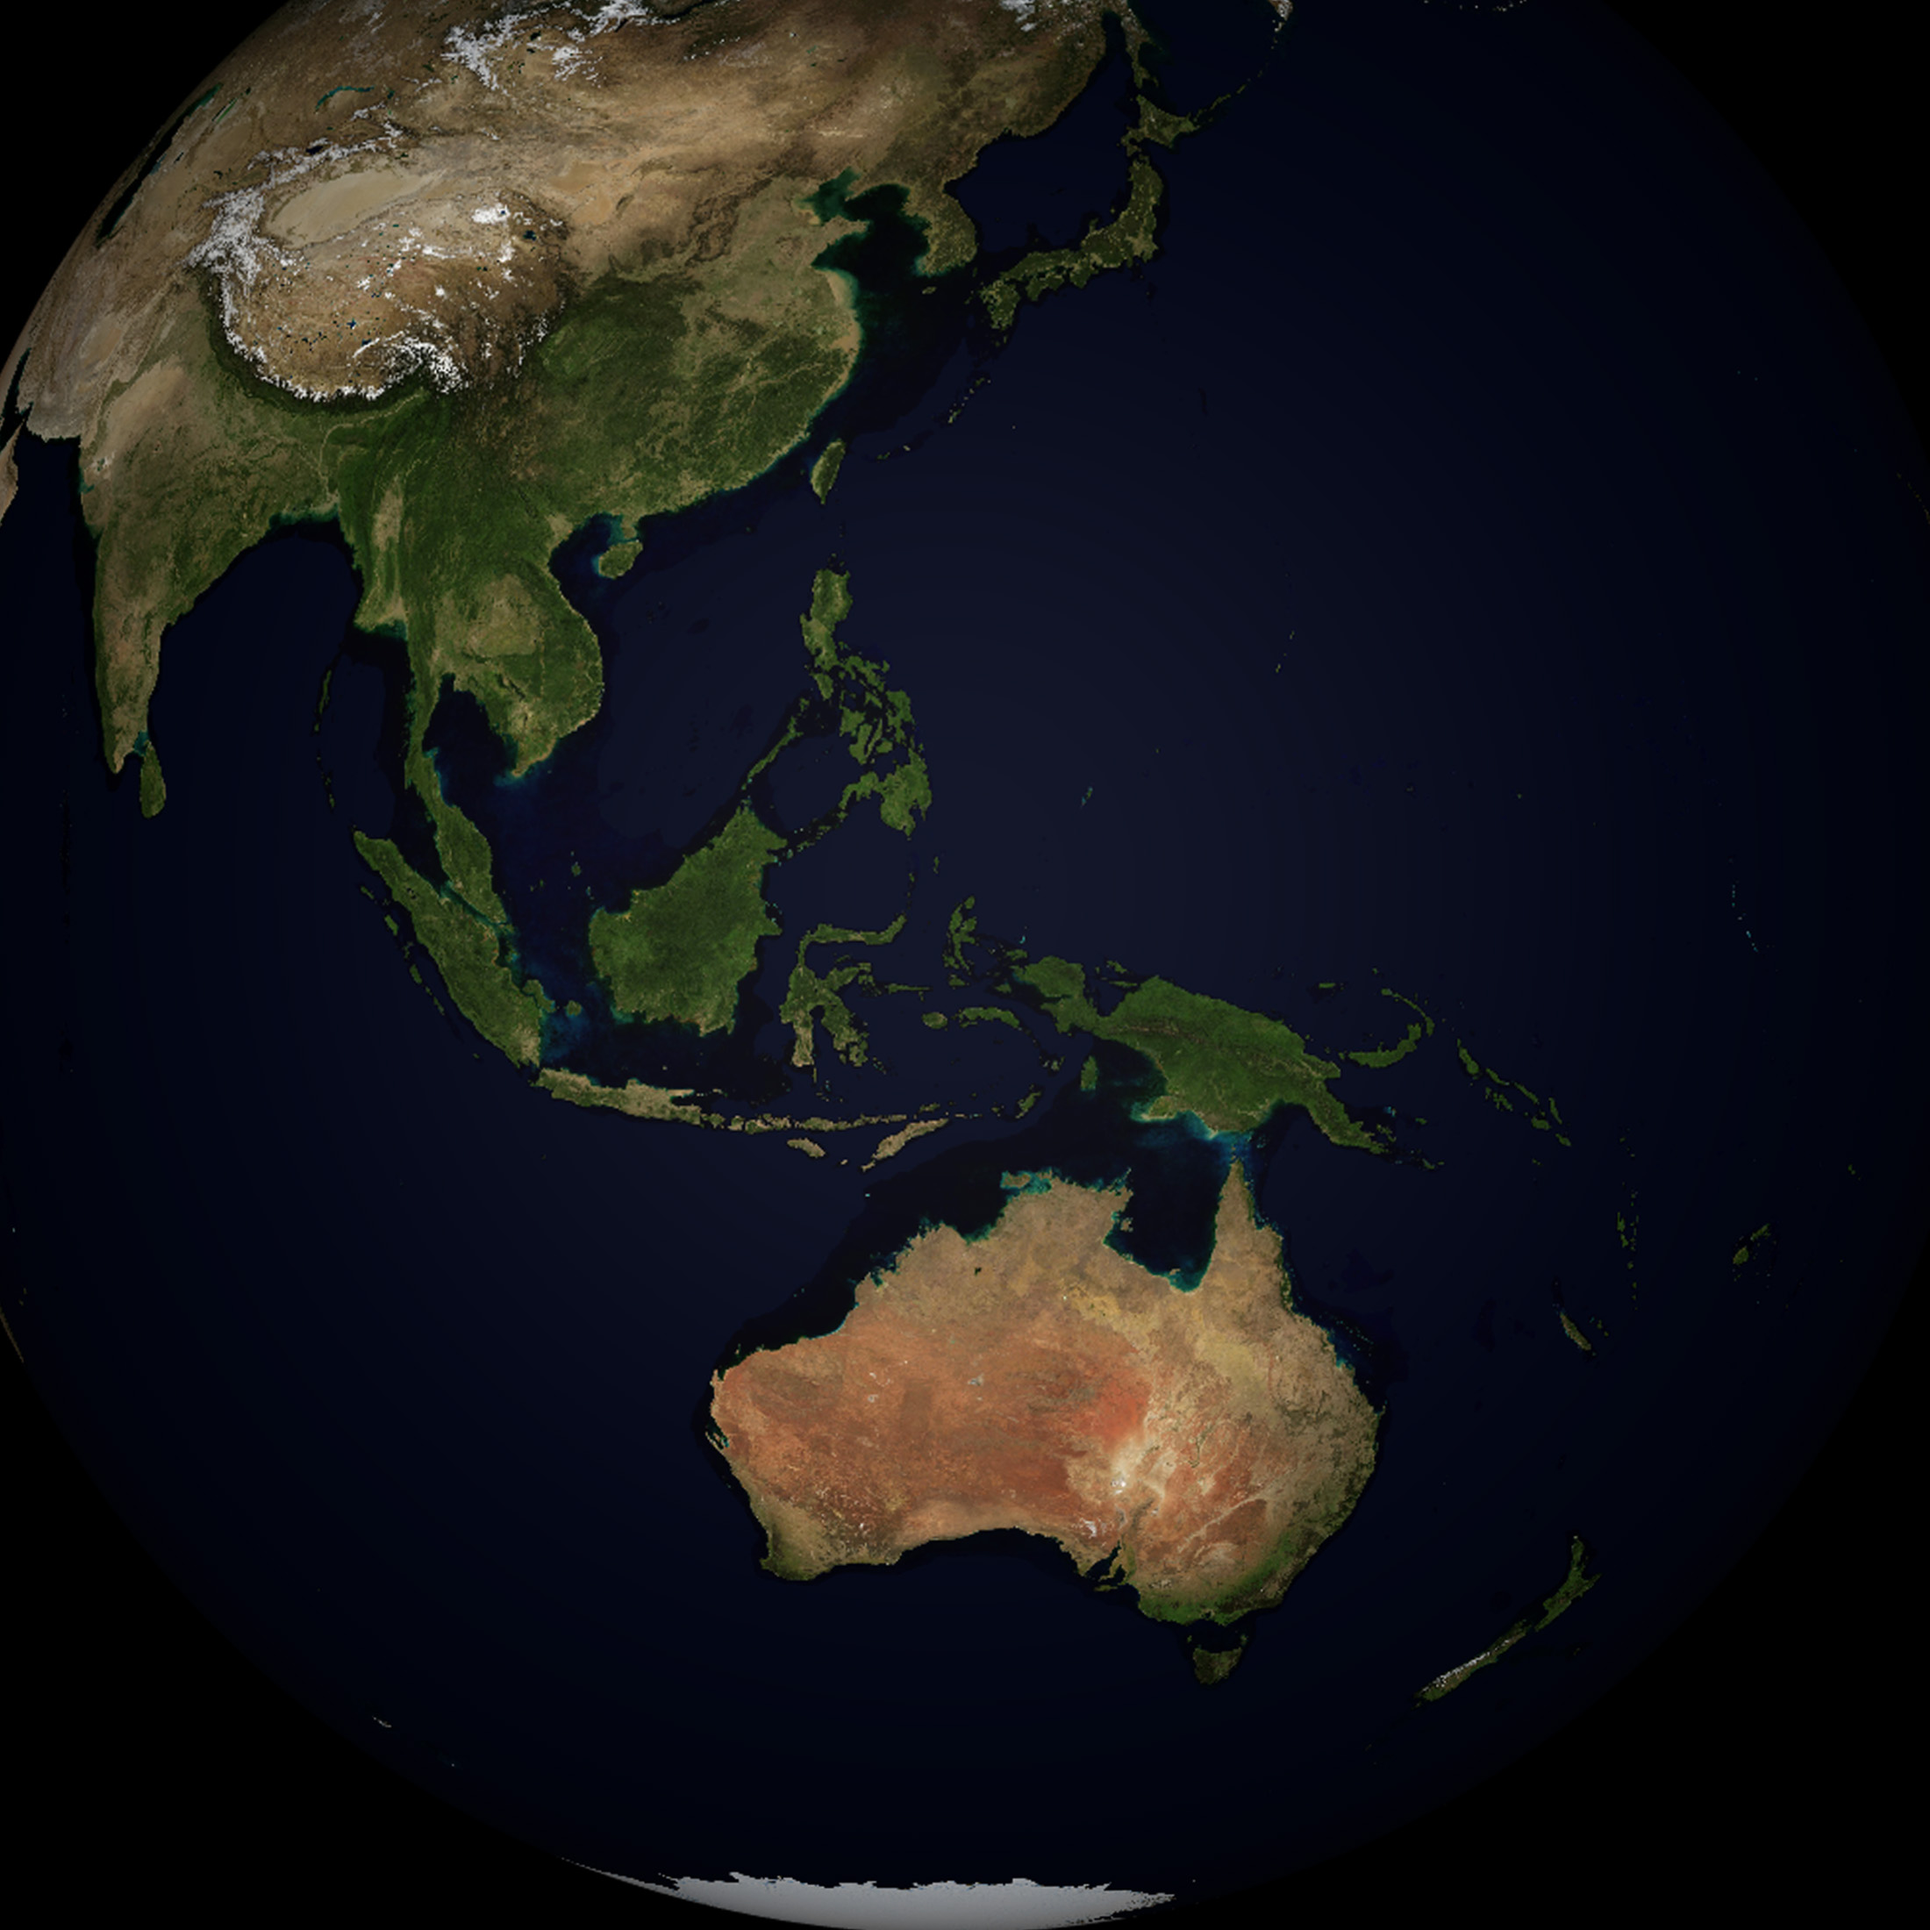
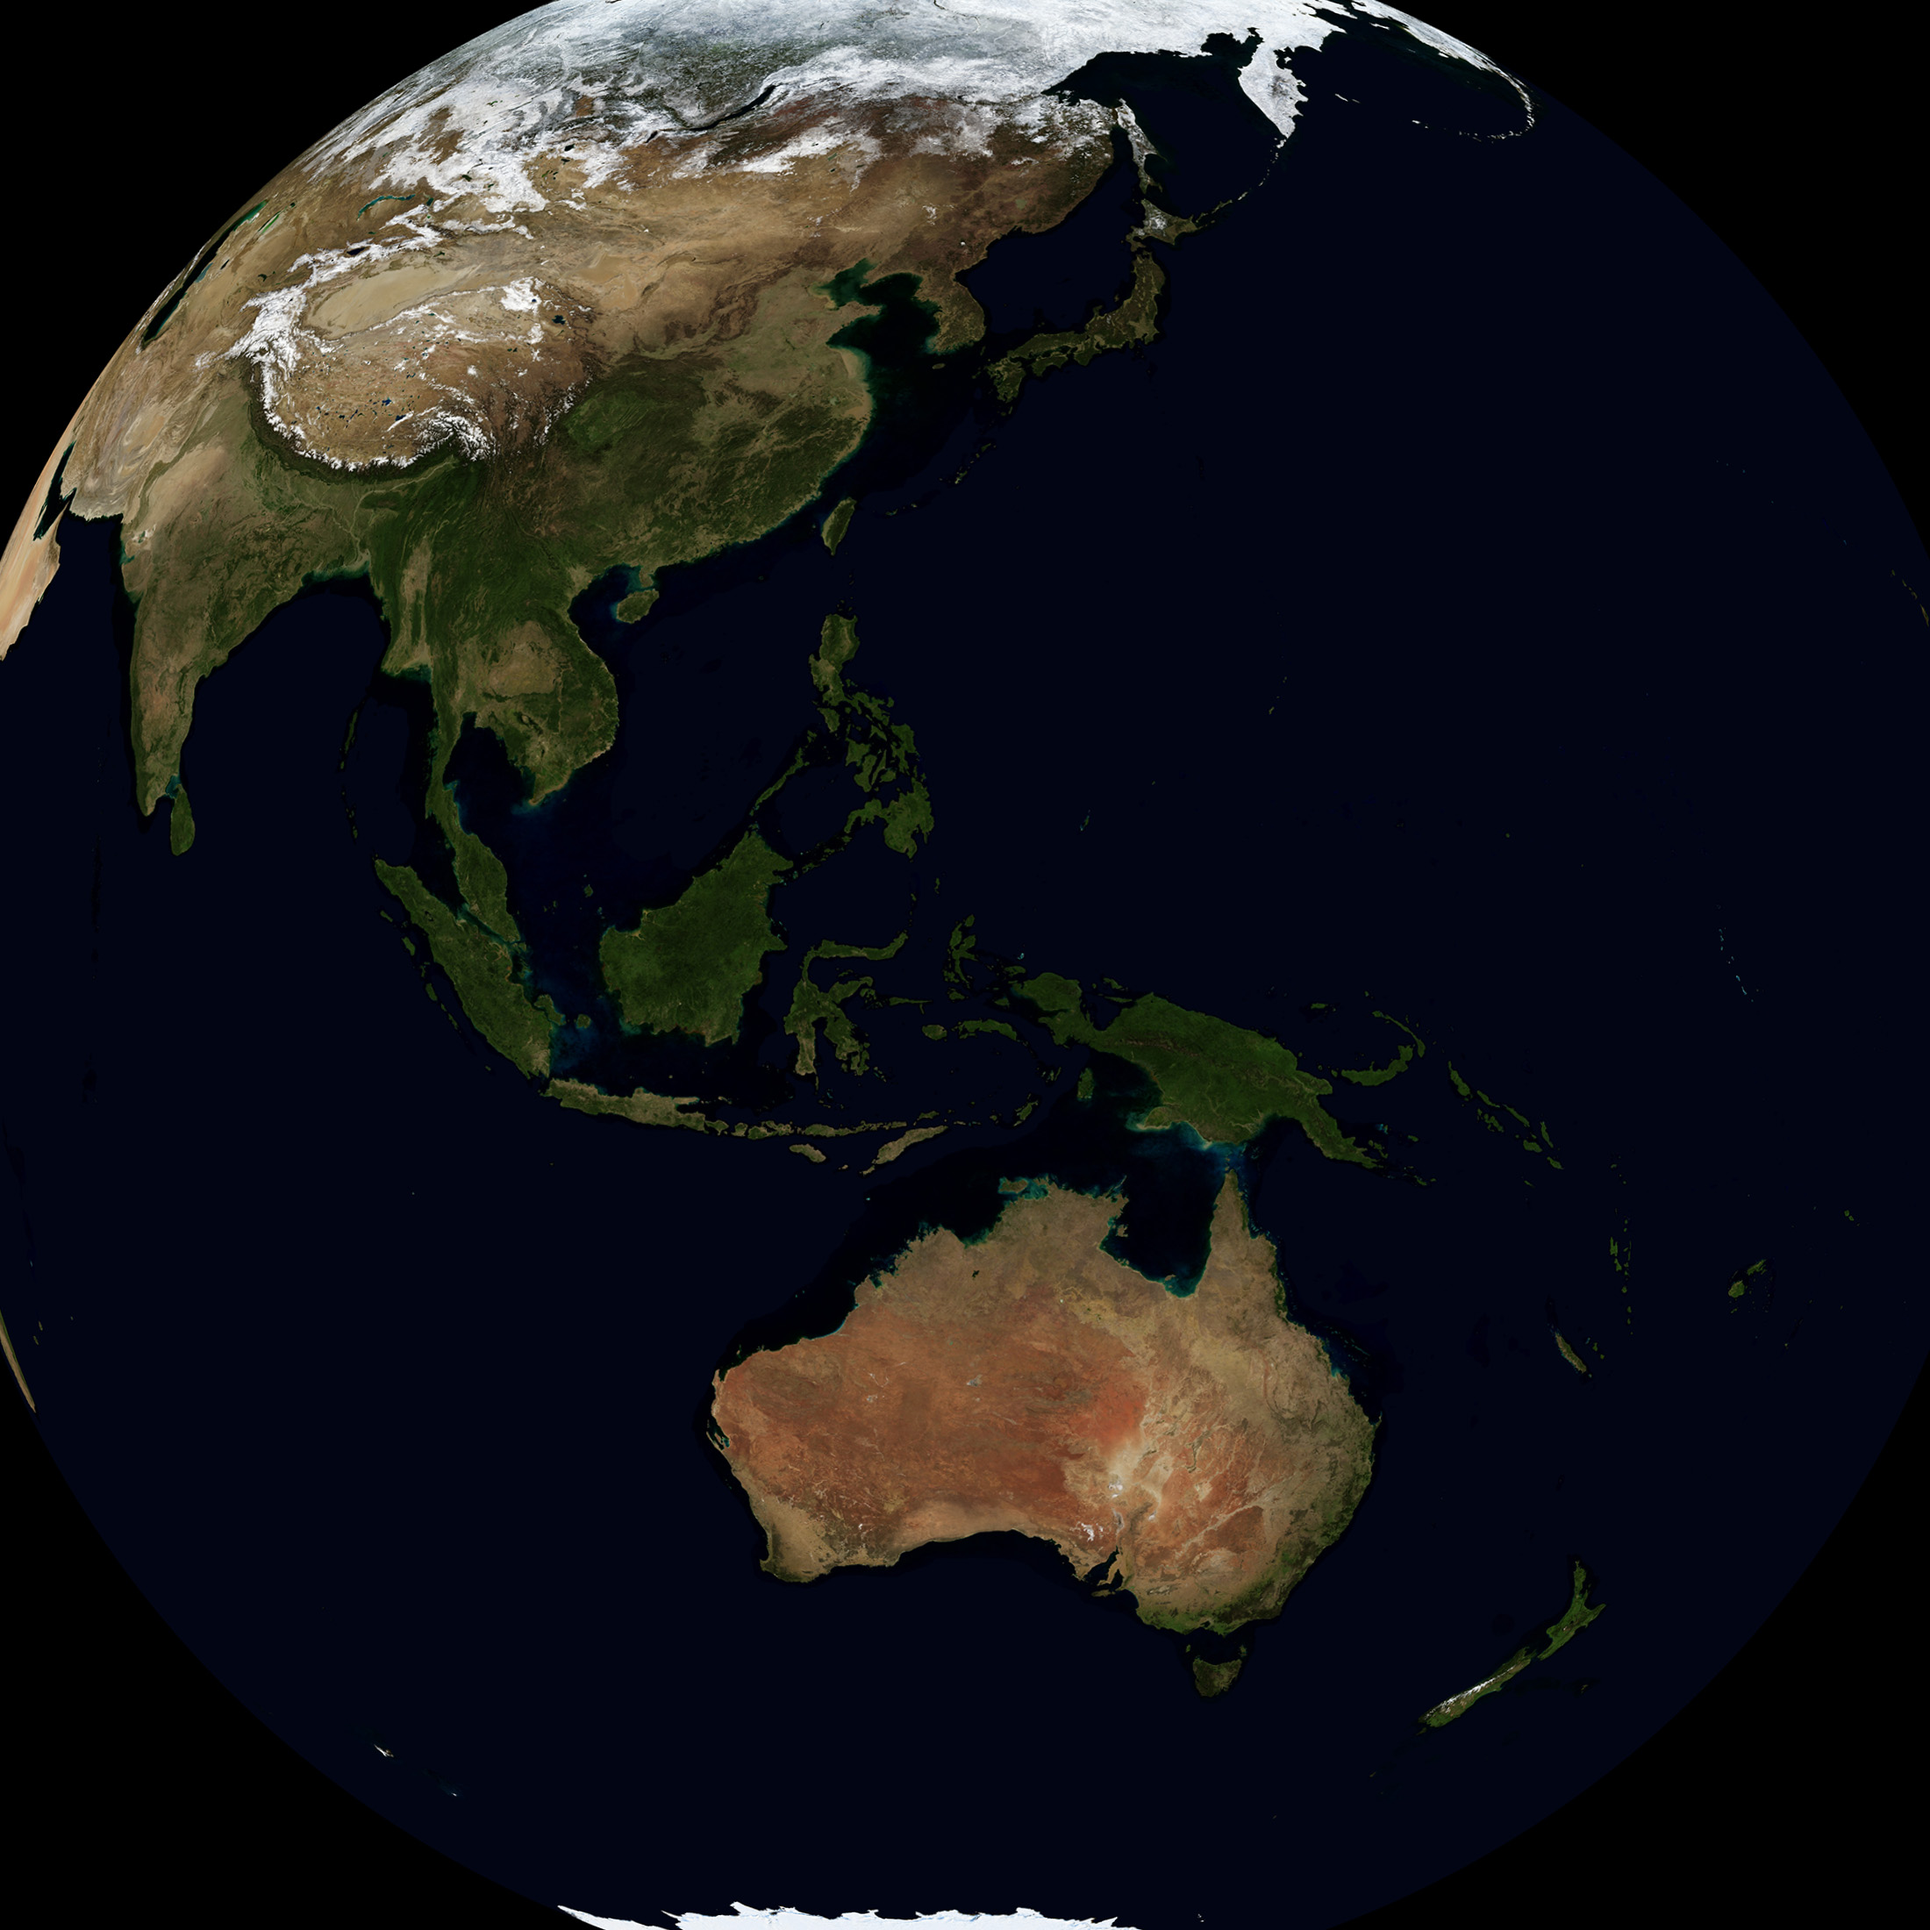
Add high-rez underlays Add image upscaling service Tidy

diff --git a/Sanchez/Builders/CompositorBuilder.cs b/Sanchez/Builders/CompositorBuilder.cs
@@ -1,5 +1,6 @@
-using Ardalis.GuardClauses;
+using System.Linq;
 using Sanchez.Models;
+using Serilog;
 using SixLabors.ImageSharp;
 using SixLabors.ImageSharp.PixelFormats;
 using SixLabors.ImageSharp.Processing;
@@ -11,26 +12,36 @@ namespace Sanchez.Builders
     /// </summary>
     internal class CompositorBuilder
     {
-        private readonly Image _image;
+        /// <summary>
+        ///     Source images
+        /// </summary>
+        private readonly ImageStack _stack;
         private readonly RenderOptions _options;
+
+        /// <summary>
+        ///     Image being composited
+        /// </summary>
+        private readonly Image _image;
         
         /// <summary>
         ///     Creates a new builder.
         /// </summary>
-        /// <param name="image">image to compose</param>
+        /// <param name="stack">image to compose</param>
         /// <param name="options">render options</param>
-        public CompositorBuilder(Image image, RenderOptions options)
+        public CompositorBuilder(ImageStack stack, RenderOptions options)
         {
-            _image = image;
+            _stack = stack;
             _options = options;
+
+            _image = _stack.Underlay!;
         }
 
         /// <summary>
         ///     Blends the underlay image with the satellite image.
         /// </summary>
-        public CompositorBuilder AddUnderlay(Image satellite)
+        public CompositorBuilder AddUnderlay()
         {
-            _image.Mutate(context => context.DrawImage(satellite, PixelColorBlendingMode.Screen, 1.0f));
+            _image.Mutate(context => context.DrawImage(_stack.Satellite, PixelColorBlendingMode.Screen, 1.0f));
             return this;
         }
 
@@ -57,39 +68,66 @@ namespace Sanchez.Builders
         ///     This mask is multiplied with the composite image so isn't entirely suitable for adding textual information
         ///     or other graphics to the image.
         /// </remarks>
-        public CompositorBuilder AddMask(string? path)
+        public CompositorBuilder AddMask()
         {
-            if (!_options.RenderMask) return this;
-            Guard.Against.Null(path, nameof(path));
+            if (_stack.Mask == null) return this;
 
-            Compose(path!, PixelColorBlendingMode.Multiply);
+            Compose(_stack.Mask, PixelColorBlendingMode.Multiply);
             return this;
         }
 
         /// <summary>
         ///     Adds an overlay image.
         /// </summary>
-        public CompositorBuilder AddOverlay(string? path)
+        public CompositorBuilder AddOverlay()
         {
-            if (!_options.RenderOverlay) return this;
-            Guard.Against.Null(path, nameof(path));
+            if (_stack.Overlay == null) return this;
 
-            Compose(path!);
+            Compose(_stack.Overlay);
             return this;
         }
 
-        private void Compose(string path, PixelColorBlendingMode blendingMode = PixelColorBlendingMode.Normal)
+        /// <summary>
+        ///     Composes the underlay with a target image.
+        /// </summary>
+        private void Compose(Image target, PixelColorBlendingMode blendingMode = PixelColorBlendingMode.Normal)
         {
-            _image.Mutate(context =>
-            {
-                using var target = Image.Load(path);
-                context.DrawImage(target, blendingMode, 1.0f);
-            });
+            _image.Mutate(context => context.DrawImage(target, blendingMode, 1.0f));
         }
 
         /// <summary>
         ///     Saves the composited image.
         /// </summary>
         public void Save(string outputFilename) => _image.Save(outputFilename);
+
+        /// <summary>
+        ///     Resizes each image in a collection to the largest image in the collection.
+        /// </summary>
+        /// <remarks>
+        ///    It is assumed that each image has the same aspect ratio. If not, warping will occur.
+        /// </remarks>
+        public CompositorBuilder Scale()
+        {
+            var images = _stack.All.ToList();
+            
+            var maxWidth = images.Max(image => image.Width);
+            var maxHeight = images.Max(image => image.Height);
+
+            // Find the image which has the largest width and height
+            var largestImage = images.FirstOrDefault(i => i.Width == maxWidth && i.Height == maxHeight);
+            if (largestImage == null) return this;
+
+            // Don't do anything if all images are the same size
+            if (images.Min(image => image.Width) >= maxWidth && images.Min(image => image.Height) >= maxHeight) return this;
+            
+            images.ForEach(image =>
+            {
+                Log.Information("Resizing to max dimension of {width}x{height}", maxWidth, maxHeight);
+ 
+                image.Mutate(context => context.Resize(largestImage.Width, largestImage.Height));
+            });
+
+            return this;
+        }
     }
 }

diff --git a/Sanchez/Services/Compositor.cs b/Sanchez/Services/Compositor.cs
@@ -161,19 +161,25 @@ namespace Sanchez.Services
                 return null;
             }
 
-            // Load underlay image
-            using var underlay = Image.Load(options.UnderlayPath);
+            // Load all images
+            var stack = new ImageStack
+            {
+                Underlay = Image.Load(options.UnderlayPath),
+                Satellite = Image.Load(sourcePath),
+                Overlay = options.OverlayPath == null ? null : Image.Load(options.OverlayPath),
+                Mask = options.MaskPath == null ? null : Image.Load(options.MaskPath)
+            };
 
-            // Load satellite image, removing grey tint
-            using var satelliteImage = Image.Load(sourcePath);
-            satelliteImage.TintAndBlend(renderOptions.Tint!.Value);
+            // Remove grey tint from satellite image
+            stack.Satellite.TintAndBlend(renderOptions.Tint!.Value);
 
             // Composite images
-            new CompositorBuilder(underlay, renderOptions)
-                .AddUnderlay(satelliteImage)
+            new CompositorBuilder(stack, renderOptions)
+                .Scale()
+                .AddUnderlay()
                 .PostProcess()
-                .AddMask(options.MaskPath)
-                .AddOverlay(options.OverlayPath)
+                .AddOverlay()
+                .AddMask()
                 .Save(outputFilename);
 
             return Path.GetFullPath(outputFilename);

diff --git a/Sanchez/Models/RenderOptions.cs b/Sanchez/Models/RenderOptions.cs
@@ -7,17 +7,13 @@ namespace Sanchez.Models
     /// </summary>
     public class RenderOptions
     {
-        internal RenderOptions(bool renderMask, bool renderOverlay, float brightness, float saturation, Color? tint)
+        internal RenderOptions(float brightness, float saturation, Color? tint)
         {
-            RenderMask = renderMask;
-            RenderOverlay = renderOverlay;
             Brightness = brightness;
             Saturation = saturation;
             Tint = tint;
         }
 
-        internal bool RenderMask { get; }
-        internal bool RenderOverlay { get; }
         internal float Brightness { get; }
         internal float Saturation { get; }
         internal Color? Tint { get; }

diff --git a/Sanchez/Models/ImageStack.cs b/Sanchez/Models/ImageStack.cs
@@ -1,0 +1,19 @@
+using System.Collections.Generic;
+using System.Linq;
+using SixLabors.ImageSharp;
+
+namespace Sanchez.Models
+{
+    /// <summary>
+    ///     All images used in a composition.
+    /// </summary>
+    public class ImageStack
+    {
+        public Image? Underlay { get; set; }
+        public Image? Satellite { get; set; }
+        public Image? Mask { get; set; }
+        public Image? Overlay { get; set; }
+
+        public IEnumerable<Image> All => new[] { Underlay, Satellite, Mask, Overlay }.Where(image => image != null)!;
+    }
+}

diff --git a/Sanchez/Factories/RenderOptionFactory.cs b/Sanchez/Factories/RenderOptionFactory.cs
@@ -10,13 +10,7 @@ namespace Sanchez.Factories
         /// </summary>
         internal static RenderOptions ToRenderOptions(CommandLineOptions options)
         {
-            // Compositing options
-            var renderMask = options.MaskPath != null;
-            var renderOverlay = options.OverlayPath != null;
-
             return new RenderOptions(
-                renderMask,
-                renderOverlay,
                 options.Brightness,
                 options.Saturation,
                 options.Tint.FromHexString());

diff --git a/README.md b/README.md
@@ -31,9 +31,11 @@ For Raspberry Pi, pick the ARM build.
 
 ## Image resources
 
-Sample underlays, masks and IR images for Himawari-8 and GK-2A are in the [Resources](Sanchez/Resources) folder.
+Sample underlays, masks and IR images for Himawari-8 and GK-2A are in the [Resources](Sanchez/Resources) folder. Each satellite has an underlay which matches the pixel dimensions of the image, and a high-resolution underlay.
 
 ## Usage
+
+All images are expected to be the same aspect ratio. If images are different sizes - for example, when using the high-resolution underlays - source images will be scaled up.
 
 ```
   -u, --underlay      Required. Path to full-colour underlay image
@@ -53,8 +55,8 @@ Sample underlays, masks and IR images for Himawari-8 and GK-2A are in the [Resou
   -S, --saturation    (Default: 0.7) Saturation adjustment
 
   -q, --quiet         (Default: false) Don't provide any console output
-  
-  -f, --force         (Default: false) Force overwrite existing output file  
+
+  -f, --force         (Default: false) Force overwrite existing output file
 
   --help              Display this help screen.
 
@@ -75,8 +77,6 @@ Sample underlays, masks and IR images for Himawari-8 and GK-2A are in the [Resou
 ```
 ./Sanchez -s "c:\images\Himawari8\**\Himawari8_FD_VS_20200727T005100Z.jpg" -m Resources\Mask.jpg -u Resources\Himawari-8\Underlay.jpg` -o Output.jpg -t #0096FA
 ```
-
-It is assumed that all input images are the same size.
 
 ## Tint formats
 
@@ -112,6 +112,8 @@ Detailed logs are written to disk in the `logs` directory relative to the direct
 
 NASA's collection of [Blue Marble](https://visibleearth.nasa.gov/collection/1484/blue-marble) images is an excellent source of high resolution underlay images.
 
-Websites such as [Map To Globe](https://www.maptoglobe.com/) can be used to map the underlay to a globe. Images produced by both GK-2A and Himawari-8 are slightly warped so don't fully map to texture-mapped globes. In order to correct for this, Photoshop's lens correction filter can be used.
+NASA's [G.Projector](https://www.giss.nasa.gov/tools/gprojector/) application is recommended to map the underlays to a globe. This application allows for accurate map rotation based on the known longitude of the satellites, and cna export high resolution images.
+
+All of the IR images are distorted and don't fully map to texture-mapped globes. In order to correct for this, Photoshop's lens correction filter can be used to minimise visible distortion.
 
 This is the approach used for the sample underlay images in the [Resources](Sanchez/Resources) folder.
